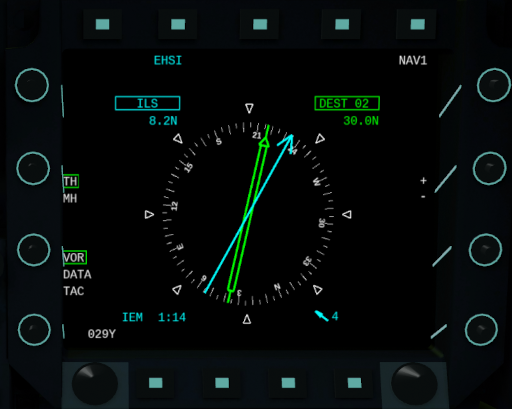
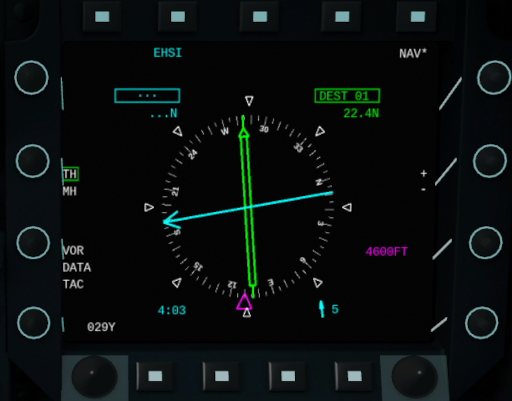
Visualisation of autopilot hdg bug and autopilot alt in EHSI

diff --git a/Mirage-2000/Docs/manual_rst/conf.py b/Mirage-2000/Docs/manual_rst/conf.py
@@ -2,7 +2,7 @@
 
 # -- Project information -----------------------------------------------------
 project = 'FlightGear Mirage 2000'
-copyright = '2025, FlightGear Mirage 2000 Team'
+copyright = '2026, FlightGear Mirage 2000 Team'
 author = 'Rick Gruber-Riemer, Renaud Roquefort'
 release = '0.0.1'
 
@@ -25,11 +25,6 @@ language = 'en'
 
 pygments_style = 'sphinx'
 
-
-# -- Options for HTML output -------------------------------------------------
-html_theme = 'sphinx_rtd_theme'
-# html_static_path = ['_static']
-htmlhelp_basename = 'M2000doc'
 
 
 # -- Options for rinohtype (direct PDF) output -----------------------------------

diff --git a/Mirage-2000/Docs/manual_rst/displays.rst b/Mirage-2000/Docs/manual_rst/displays.rst
@@ -249,6 +249,9 @@ To change the currently displayed page, use the second button from left (cyan co
 From the hub (see illustration) you can access all available pages.
 
 .. image:: images/hub_page.png
+   :alt: HUB page
+   :align: center
+   :scale: 50%
 
 
 Use the mouse wheel to push the toggles on the left and right side of the MFD up and down. Only those toggles work, which have a text associated on the screen.
@@ -274,7 +277,9 @@ The SMS page shows the currently loaded weapons incl. external tanks. A few thin
 The abbreviations used for the stores are available in the weapons overview table in :ref:`link_section_overview_weapons` (a number in front of the abbreviations means the number of this weapon at the station).
 
 .. image:: images/sms_page.png
-
+   :alt: SMS page
+   :align: center
+   :scale: 50%
 
 .. _link_subsection_ppa:
 
@@ -288,7 +293,9 @@ At the top of the page a reminder for the pilot is displayed: "Damage: Off" mean
 The displayed menus depend on the chosen weapon and sometimes on previously chosen menu items (e.g. the ripple distance is only shown, if ripple mode is set to more than 1).
 
 .. image:: images/ppa_page.png
-
+   :alt: PPA page
+   :align: center
+   :scale: 50%
 
 .. _link_subsection_rwr:
 
@@ -298,8 +305,9 @@ Radar Warning Receiver (RWR)
 The radar warning receiver (`RWR⇗ <https://en.wikipedia.org/wiki/Radar_warning_receiver>`_) screen is actually a combination of a RWR display and a counter-measures dispenser display.
 
 .. image:: images/rwr_intro.png
-   :alt: RWR Display
+   :alt: RWR page
    :align: center
+   :scale: 50%
 
 On the left side of the screen there are 2 menu items for the RWR:
 
@@ -310,6 +318,9 @@ RWR
 ^^^
 
 .. image:: images/rwr_symbols.png
+   :alt: RWR page
+   :align: center
+   :scale: 50%
 
 The RWR displays a maximum of 12 threats. High level threats (e.g. with an STT lock or actively guiding a missile) are displayed within the blue centre ring. Lower level threats are displayed closer to the outer ring. I.e. the distance from centre is an interpretation of threat and not a real distance. The position is a top-down view around your aircraft (nose towards up/North).
 
@@ -318,6 +329,7 @@ Different types of threats are displayed with different symbols according to USA
 .. image:: images/rwr_locked.png
    :alt: RWR Threat Symbols
    :align: center
+   :scale: 50%
 
 If there is a chevron below the symbol, then the threat has a radar lock on you. If there is a hat on top of the symbol, then the threat is either source to an active missile or guiding a semi-active missile.
 
@@ -338,6 +350,7 @@ At the right side of the RWR there are 4 indicators for dispensed counter-measur
 .. image:: images/rwr_counter_measures.png
    :alt: Counter-Measures Dispenser Display
    :align: center
+   :scale: 50%
 
 * ``LL`` = decoy dispenser (Lance-Leurres) - blue: blinks when counter-measures are being dispensed.
 * ``EM`` = chaff (Électro-magnétique) - amber: blinks when remaining quantity is at or below 20. Steady light when remaining quantity is at 0 (empty).
@@ -357,6 +370,9 @@ The map is based `OpenStreetMap⇗ <https://osm.org>`_ and shows only the positi
 Depending on the network connection it might take a while for parts of the map (tiles) to load. Once loaded the tiles get cached and should therefore be available further on.
 
 .. image:: images/map_page.png
+   :alt: Map page
+   :align: center
+   :scale: 50%
 
 
 Electronic Horizontal Situation Indicator (EHSI)
@@ -365,6 +381,9 @@ Electronic Horizontal Situation Indicator (EHSI)
 NB: this page is under construction - you might want to use the page on the left MFD instead (cf. :ref:`link_subsection_EHSI`).
 
 .. image:: images/ehsi_page.png
+   :alt: EHSI page
+   :align: center
+   :scale: 50%
 
 
 The FlightGear wiki has a quite comprehensive page about `Radio Navigation⇗ <https://wiki.flightgear.org/Radio_navigation>`_ with a fair amount of links.
@@ -400,10 +419,17 @@ Heading Towards Selected Destination
 The blue arrow shows the direction towards the selected destination, which depends on the mode (``VOR``, ``DATA``, ``TAC``, ``FMS``) and the actual selection within the mode.
 
 
+Autopilot Bug
+'''''''''''''
+
+The magenta triangle shows the selected course for the autopilot in ``HDG`` mode.
+
+
 Data Presented
 ^^^^^^^^^^^^^^
 
-On the left hand side:
+On the Left Hand Side
+'''''''''''''''''''''
 
 * The navigation mode: If VOR is selected and it is an ILS station, then ``ILS`` is displayed as soon as the glidescope information is in range.
 * ``...N``: Distance to destination in nautical miles. If there are only dots and no number, then the station is not yet in range for distance calculation. The distance for ILS is displayed for the glidescope when available, else as VOR.
@@ -413,17 +439,17 @@ On the left hand side:
 
 The data points beloning to the currently selected mode (e.g. VOR vs. TACAN) are shown in cyan colour, otherwise white.
 
-On the right hand side - if there is an active flightplan:
+On the Right Hand Side
+''''''''''''''''''''''
+
+If there is an active flightplan (in green):
 
 * The number of the current waypoint
 * The distance to the current waypoint
 
+A bit under the middle (in magenta): The selected altitude hold for the autopilot ``ALT`` mode.
 
-Wind
-^^^^
-
-
-On the lower right side you can see the actual wind direction and wind speed. Please be aware that the indicated wind direction is relative to the aircraft (like the compass rose).
+At the bottom (in blue): the actual wind direction and wind speed. Please be aware that the indicated wind direction is relative to the aircraft (like the compass rose).
 
 
 Electronic Attitude Direction Indicator (EADI)
@@ -432,6 +458,9 @@ Electronic Attitude Direction Indicator (EADI)
 NB: this page is under construction - you might want to use the page on the left MFD instead (cf. :ref:`link_subsection_EADI`).
 
 .. image:: images/eadi_page.png
+   :alt: EADI page
+   :align: center
+   :scale: 50%
 
 
 The Sphere
